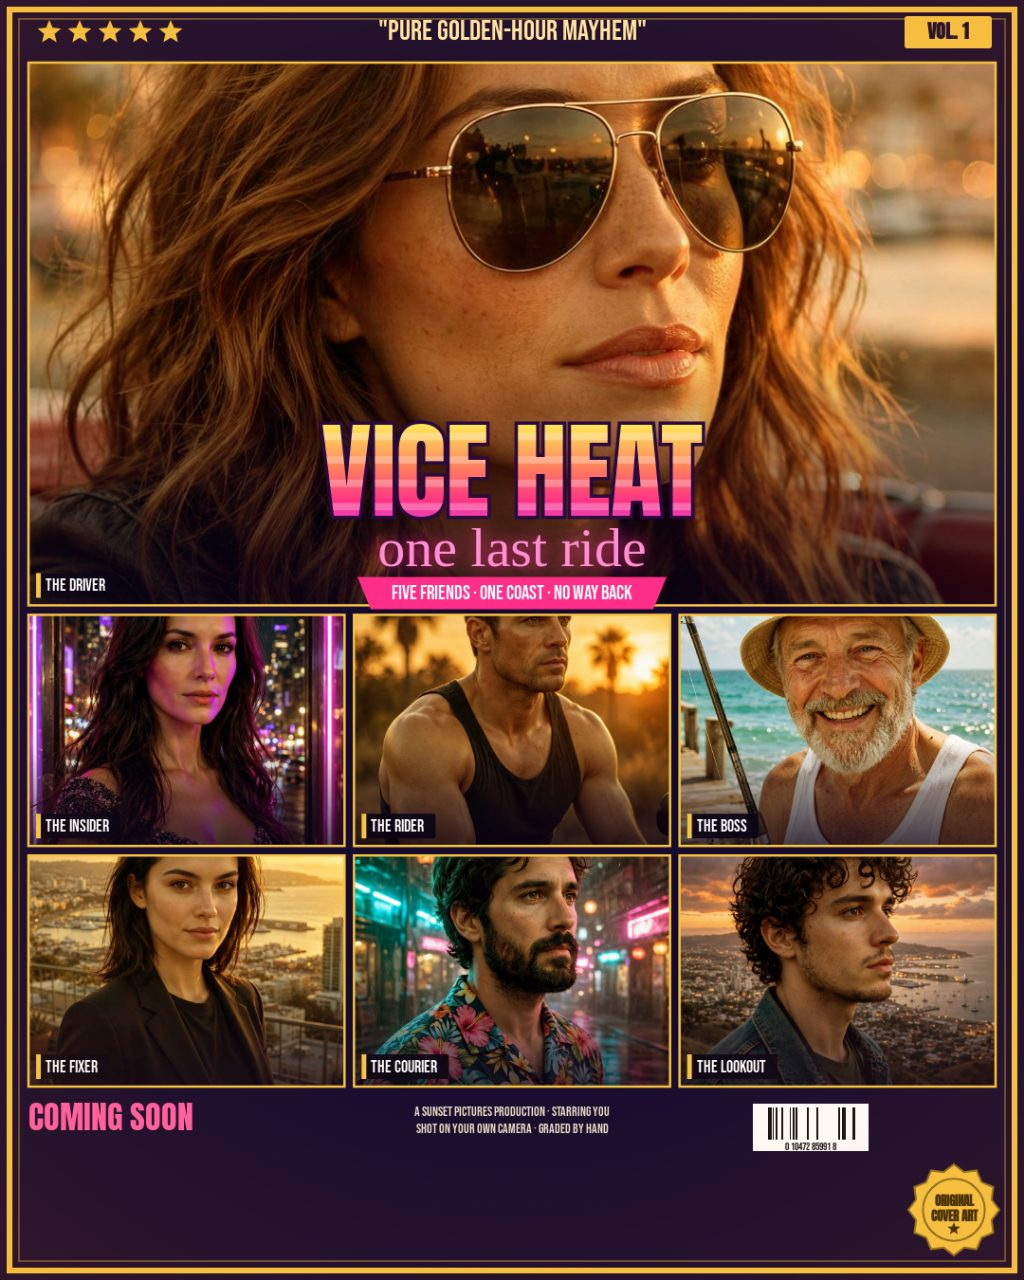
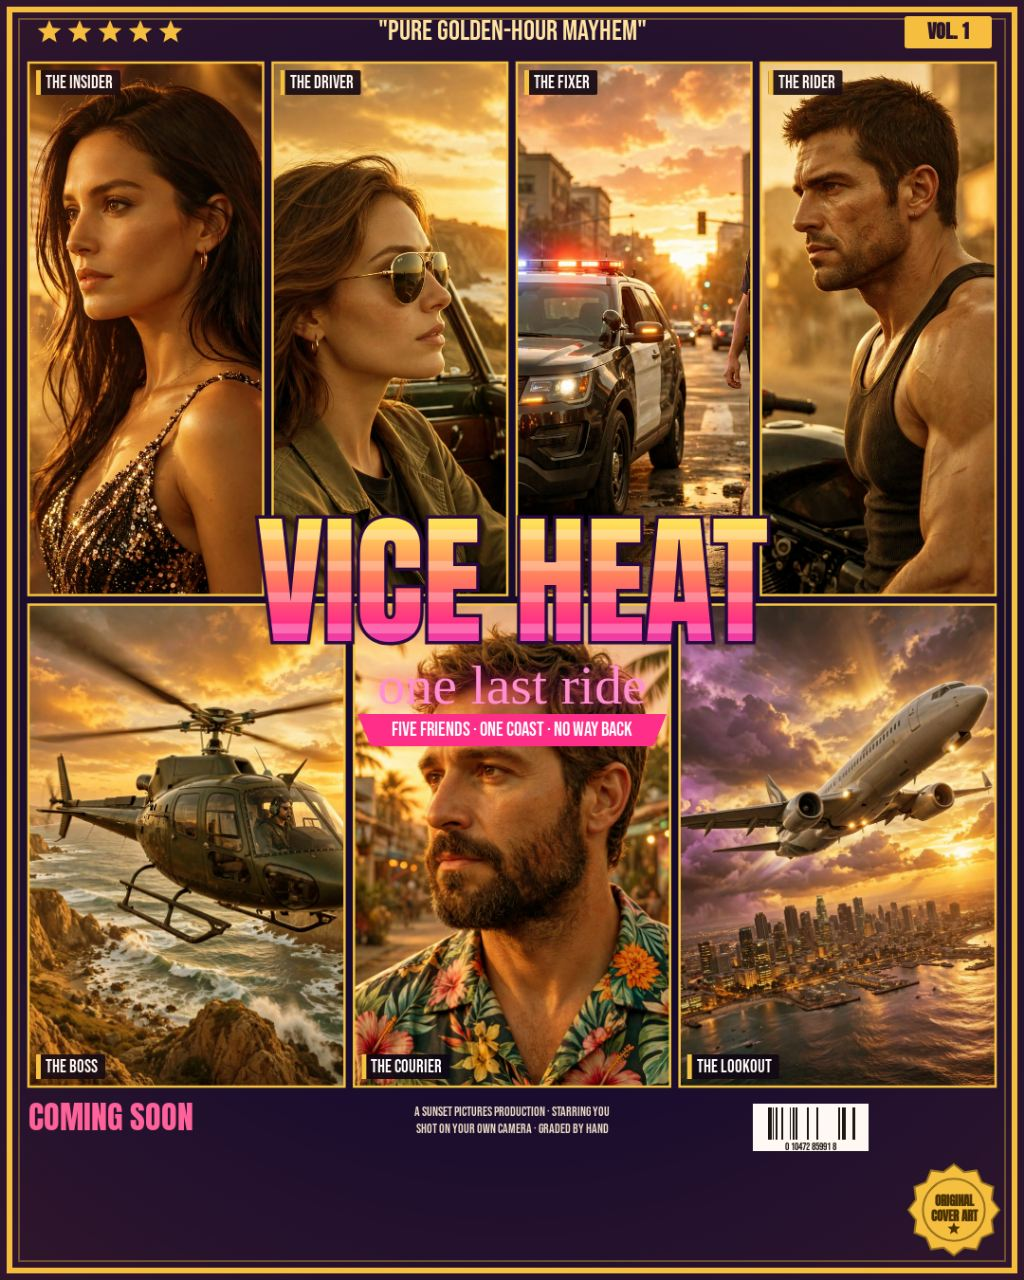
VICE HEAT rebuild #8: collage grid, varied character directions, mixed portraits + action scenes, golden-hour tone

diff --git a/app/src/cover.js b/app/src/cover.js
@@ -1,14 +1,16 @@
-// VICE HEAT — poster renderer.
+// VICE HEAT — poster renderer (rebuild #8).
 // Draws the GTA-style multi-panel cover on a 2D canvas. Pure canvas, no
 // network, no fonts outside the app's own WOFF2 files. All layout is
 // computed from the canvas size so the same code renders 1:1, 4:5 and 16:9.
-// Layout: landscape gets one dominant hero panel in the centre with three
-// supporting panels on each side; square and portrait get a large hero
-// panel on top (53%) above a compact 3x2 cast grid. The oversized title
-// crosses the hero image, with its stripes confined inside the letters.
+// Layout: classic collage grid — four panels on top, three below, big
+// striped title in the centre overlapping the row seam. The seven panels
+// mix four character portraits with three action scenes (police, helicopter,
+// airplane) so no two neighbours face or read the same way.
 
 export const GRADES = [
-  { id: 'sunset', name: 'Sunset', tint: '#ff7a18', alpha: 0.16, warm: 0.22 },
+  // Sunset is the default grade and the poster's whole tone (Sundown
+  // Racket style): a strong warm wash so every panel reads golden-hour.
+  { id: 'sunset', name: 'Sunset', tint: '#ff7a18', alpha: 0.2, warm: 0.3 },
   { id: 'neon', name: 'Neon', tint: '#ff2e88', alpha: 0.18, warm: 0.08 },
   { id: 'gold', name: 'Gold', tint: '#ffb400', alpha: 0.2, warm: 0.3 },
   { id: 'teal', name: 'Teal', tint: '#00c2a8', alpha: 0.16, warm: 0.0 },
@@ -17,15 +19,16 @@ export const GRADES = [
 
 // The seven panels of a VICE HEAT cover. `tag` is the name chip drawn on
 // the panel; `photo` is the key into the images map; `focus` is the
-// face-aware anchor (0..1) used by the cover-fit crop.
+// face-aware anchor (0..1) used by the cover-fit crop. Scene panels
+// (helicopter, airplane) use a centre focus — there is no face to keep.
 export const PANELS = [
   { key: 'hero', tag: 'THE DRIVER', focus: [0.5, 0.32] },
   { key: 'insider', tag: 'THE INSIDER', focus: [0.5, 0.3] },
-  { key: 'boss', tag: 'THE BOSS', focus: [0.5, 0.32] },
+  { key: 'boss', tag: 'THE BOSS', focus: [0.5, 0.45] },
   { key: 'rider', tag: 'THE RIDER', focus: [0.5, 0.3] },
   { key: 'courier', tag: 'THE COURIER', focus: [0.5, 0.3] },
-  { key: 'fixer', tag: 'THE FIXER', focus: [0.5, 0.3] },
-  { key: 'lookout', tag: 'THE LOOKOUT', focus: [0.5, 0.3] },
+  { key: 'fixer', tag: 'THE FIXER', focus: [0.5, 0.35] },
+  { key: 'lookout', tag: 'THE LOOKOUT', focus: [0.5, 0.5] },
 ];
 
 export const DEFAULT_STATE = {
@@ -149,48 +152,35 @@ export function drawCover(ctx, W, H, images, opts = {}) {
   ctx.font = `bold ${20 * u}px 'Anton', sans-serif`;
   ctx.fillText(s.vol, W - 34 * u - volW / 2, barY + 1 * u);
 
-  // ---- cinematic character collage
-  // Landscape covers use the reference composition: one dominant hero
-  // image in the middle, with three supporting character panels on each side.
-  // Square and portrait exports use a large hero panel above a compact 3x2 cast grid.
+  // ---- main grid: CLASSIC COLLAGE (per Yans's reference: a tight grid
+  // of panels with the big title in the centre overlapping them — the
+  // structure only, all content is our own original VICE HEAT material).
+  // Top row: four equal panels. Bottom row: three equal panels. No panel
+  // dominates; the title sits in the middle overlapping the row boundary.
+  // Four panels are character portraits facing different directions, three
+  // are action scenes (police, helicopter, airplane) — the mix keeps the
+  // grid from reading as seven identical headshots.
   const gridX = 30 * u;
   const gridW = W - 60 * u;
   const gridY = 66 * u;
   const gridH = H * 0.8;
   const gap = 10 * u;
-  const panels = {};
-  let titleY;
+  const topH = gridH * 0.52;
+  const botH = gridH - topH - gap;
+  const topW = (gridW - gap * 3) / 4;
+  const botW = (gridW - gap * 2) / 3;
 
-  if (W / H > 1.25) {
-    const sideW = gridW * 0.205;
-    const heroW = gridW - sideW * 2 - gap * 2;
-    const rowH = (gridH - gap * 2) / 3;
-    panels.insider = { x: gridX, y: gridY, w: sideW, h: rowH };
-    panels.rider = { x: gridX, y: gridY + rowH + gap, w: sideW, h: rowH };
-    panels.boss = { x: gridX, y: gridY + (rowH + gap) * 2, w: sideW, h: rowH };
-    panels.hero = { x: gridX + sideW + gap, y: gridY, w: heroW, h: gridH };
-    panels.fixer = { x: gridX + sideW + gap + heroW + gap, y: gridY, w: sideW, h: rowH };
-    panels.courier = { x: gridX + sideW + gap + heroW + gap, y: gridY + rowH + gap, w: sideW, h: rowH };
-    panels.lookout = { x: gridX + sideW + gap + heroW + gap, y: gridY + (rowH + gap) * 2, w: sideW, h: rowH };
-    titleY = gridY + gridH * 0.54;
-  } else {
-    const heroH = gridH * 0.53;
-    const lowerY = gridY + heroH + gap;
-    const lowerH = gridH - heroH - gap;
-    const cardW = (gridW - gap * 2) / 3;
-    const cardH = (lowerH - gap) / 2;
-    panels.hero = { x: gridX, y: gridY, w: gridW, h: heroH };
-    panels.insider = { x: gridX, y: lowerY, w: cardW, h: cardH };
-    panels.rider = { x: gridX + cardW + gap, y: lowerY, w: cardW, h: cardH };
-    panels.boss = { x: gridX + (cardW + gap) * 2, y: lowerY, w: cardW, h: cardH };
-    panels.fixer = { x: gridX, y: lowerY + cardH + gap, w: cardW, h: cardH };
-    panels.courier = { x: gridX + cardW + gap, y: lowerY + cardH + gap, w: cardW, h: cardH };
-    panels.lookout = { x: gridX + (cardW + gap) * 2, y: lowerY + cardH + gap, w: cardW, h: cardH };
-    titleY = gridY + heroH * 0.78;
-  }
+  const panels = {
+    insider: { x: gridX, y: gridY, w: topW, h: topH },
+    hero: { x: gridX + topW + gap, y: gridY, w: topW, h: topH },
+    fixer: { x: gridX + (topW + gap) * 2, y: gridY, w: topW, h: topH },
+    rider: { x: gridX + (topW + gap) * 3, y: gridY, w: topW, h: topH },
+    boss: { x: gridX, y: gridY + topH + gap, w: botW, h: botH },
+    courier: { x: gridX + botW + gap, y: gridY + topH + gap, w: botW, h: botH },
+    lookout: { x: gridX + (botW + gap) * 2, y: gridY + topH + gap, w: botW, h: botH },
+  };
 
-  // Draw all seven character photos with a fine gold frame and a subtle
-  // color grade. The central hero is intentionally the visual anchor.
+  // Draw each photo panel with a thin gold inner border.
   const photoKeys = ['insider', 'hero', 'fixer', 'rider', 'boss', 'courier', 'lookout'];
   for (const key of photoKeys) {
     const p = panels[key];
@@ -205,30 +195,25 @@ export function drawCover(ctx, W, H, images, opts = {}) {
       ctx.fillStyle = '#2a1548';
       ctx.fillRect(p.x, p.y, p.w, p.h);
     }
+    // grade wash over the photo
     ctx.globalCompositeOperation = 'soft-light';
     ctx.fillStyle = grade.tint;
-    ctx.globalAlpha = grade.alpha + 0.22;
+    ctx.globalAlpha = grade.alpha + 0.25;
     ctx.fillRect(p.x, p.y, p.w, p.h);
     ctx.globalCompositeOperation = 'source-over';
     ctx.globalAlpha = 1;
-    // Dark lower gradient keeps character labels legible on bright photos.
-    const shade = ctx.createLinearGradient(0, p.y + p.h * 0.55, 0, p.y + p.h);
-    shade.addColorStop(0, 'rgba(12,4,24,0)');
-    shade.addColorStop(1, 'rgba(12,4,24,0.72)');
-    ctx.fillStyle = shade;
-    ctx.fillRect(p.x, p.y, p.w, p.h);
     ctx.restore();
-
     ctx.strokeStyle = '#f5c542';
     ctx.lineWidth = Math.max(1, 2.5 * u);
     ctx.strokeRect(p.x, p.y, p.w, p.h);
-
+    // name tag chip: top-row panels wear it on top, bottom-row panels on
+    // the bottom (the big title overlaps the boundary between the rows).
     const tag = def.tag;
-    const tagPx = Math.max(10, 18 * u);
-    ctx.font = `${tagPx}px 'Bebas Neue', sans-serif`;
-    const tw = Math.min(p.w - 16 * u, ctx.measureText(tag).width + 22 * u);
+    ctx.font = `${Math.max(11, 19 * u)}px 'Bebas Neue', sans-serif`;
+    const tw = ctx.measureText(tag).width + 18 * u;
     const th = 26 * u;
-    const tagY = p.y + p.h - th - 8 * u;
+    const isBottomRow = p.y > gridY + topH;
+    const tagY = isBottomRow ? p.y + p.h - th - 8 * u : p.y + 8 * u;
     ctx.fillStyle = 'rgba(10,5,20,0.92)';
     rr(ctx, p.x + 8 * u, tagY, tw, th, 2 * u);
     ctx.fill();
@@ -237,15 +222,18 @@ export function drawCover(ctx, W, H, images, opts = {}) {
     ctx.fillStyle = '#ffffff';
     ctx.textAlign = 'left';
     ctx.textBaseline = 'middle';
-    ctx.fillText(tag, p.x + 18 * u, tagY + th / 2 + 1 * u, tw - 14 * u);
+    ctx.fillText(tag, p.x + 18 * u, tagY + th / 2 + 1 * u);
   }
 
-  // ---- oversized title crossing the hero image, as in the cover references
-  const titlePx = fitFont(ctx, s.title, "'Anton', sans-serif", gridW * 0.94, (W / H > 1.25 ? 150 : 112) * u);
+  // ---- big striped title overlapping the row seam
+  // Wide 16:9 exports have room for a larger title than square/portrait.
+  const titleY = gridY + topH + 6 * u;
+  const titleStartPx = (W / H > 1.25 ? 170 : 150) * u;
+  const titlePx = fitFont(ctx, s.title, "'Anton', sans-serif", gridW * 0.94, titleStartPx);
   ctx.textAlign = 'center';
   ctx.textBaseline = 'middle';
   ctx.font = `${titlePx}px 'Anton', sans-serif`;
-  // Chrome gradient fill: pink -> orange -> gold.
+  // Chrome gradient fill: yellow -> orange -> pink -> purple.
   const tg = ctx.createLinearGradient(0, titleY - titlePx * 0.55, 0, titleY + titlePx * 0.55);
   tg.addColorStop(0, '#ffe259');
   tg.addColorStop(0.35, '#ff7e5f');

diff --git a/app/src/main.js b/app/src/main.js
@@ -1,10 +1,9 @@
-// VICE HEAT — cover studio editor.
+// VICE HEAT — cover studio editor (rebuild #8).
 // Upload your own photos (or keep the seven golden-hour samples), edit the
 // title, tagline and captions, pick one of five colour grades, then export
 // the poster as a PNG in three sizes. Everything runs offline in the page.
-// The poster is one dominant hero panel (THE DRIVER) with three supporting
-// panels on each side in landscape, or a large hero above a 3x2 cast grid
-// in square and portrait — the oversized title crosses the hero image.
+// Samples mix four character portraits with three action scenes (police,
+// helicopter, airplane).
 
 import { drawCover, GRADES, PANELS, DEFAULT_STATE, EXPORT_SIZES } from './cover.js';
 
@@ -21,7 +20,7 @@ const SAMPLE_SRC = {
   lookout: 'samples/lookout.jpg',
 };
 
-const LS_KEY = 'vice-heat-studio-v7';
+const LS_KEY = 'vice-heat-studio-v8';
 
 function loadImage(src) {
   return new Promise((resolve, reject) => {
@@ -296,10 +295,6 @@ export function shotFromQuery() {
 
 async function boot() {
   await loadAllImages();
-  // The poster text is drawn on canvas with the app's own fonts; wait for
-  // them so the first render (and any screenshot) uses Anton/Bebas/Pacifico,
-  // not a fallback face.
-  try { await document.fonts.ready; } catch { /* fonts are optional */ }
   buildPanelCards();
   buildGradeButtons();
   buildSizeButtons();
@@ -315,9 +310,12 @@ async function boot() {
       state.grade = shot.grade;
     }
   }
+  // Wait for the OFL fonts so the title renders in Anton/Bebas/Pacifico
+  // instead of a fallback face on the first paint.
+  try { await document.fonts.ready; } catch { /* fonts are optional */ }
   renderPreview();
   document.body.classList.add('ready');
-  // Signal the scripted screenshot runner that the poster is drawn.
+  // Signal for the screenshot runner: the poster is painted.
   window.__shotReady = true;
 }
 

diff --git a/app/index.html b/app/index.html
@@ -66,21 +66,23 @@
     <section class="card">
       <h2>Cast photos</h2>
       <div id="panels" class="panels"></div>
-      <p class="hint">Seven golden-hour samples are included. Tap “Upload photo”
-      on any panel to replace it with your own shot; the face slider moves
-      the crop so the face stays in frame.</p>
+      <p class="hint">Seven golden-hour samples are included — four character
+      portraits facing different directions plus three action scenes (police,
+      helicopter, airplane). Tap “Upload photo” on any panel to replace it
+      with your own shot; the face slider moves the crop so the face stays
+      in frame.</p>
     </section>
 
     <section class="card about">
       <h2>About this studio</h2>
       <p>VICE HEAT turns seven photos into a framed crime-epic key art cover:
-      one dominant hero panel (THE DRIVER) with three supporting panels on
-      each side in landscape, or a large hero above a 3x2 cast grid in
-      square and portrait — with name tags, a big striped chrome title
-      crossing the hero, a script subtitle, a tagline ribbon, a five-star
-      press bar, a billing block, a barcode and a gold seal. Built for the
-      make.fun gta6-cover-art-01 bounty. All artwork here is original; no
-      Rockstar logo, artwork or font is used anywhere.</p>
+      a tight classic collage grid — four panels on top, three below — with
+      name tags, a big striped chrome title in the centre overlapping the
+      panels, a script subtitle, a tagline ribbon, a five-star press bar, a
+      billing block, a barcode and a gold seal. The panels mix character
+      portraits with action scenes so the grid never reads as seven identical
+      headshots. Built for the make.fun gta6-cover-art-01 bounty. All artwork
+      here is original; no Rockstar logo, artwork or font is used anywhere.</p>
     </section>
   </aside>
 </main>

diff --git a/main.ts b/main.ts
@@ -1,6 +1,7 @@
 // VICE HEAT — entrypoint (gta6-cover-art-01, Node 22, stdlib only).
 // Copies app/ and screenshots/ into /output and writes the dossier the
 // bounty scorer checks. Run: `node main.ts` from the repo root.
+// Rebuild #8: classic collage grid, mixed portraits + action scenes.
 
 import { cpSync, existsSync, mkdirSync, readdirSync, rmSync, writeFileSync } from 'node:fs';
 import { buildDossier } from './vendor/makefun-app.ts';
@@ -17,13 +18,17 @@ function failFast(): void {
   if (shots.length < 3) {
     throw new Error(`screenshots/ holds only ${shots.length} image(s): the dossier needs 3 or 4 renders`);
   }
+  if (shots.length > 4) {
+    throw new Error(`screenshots/ holds ${shots.length} image(s): the dossier allows at most 4 renders`);
+  }
   // The poster text renders with the app's own OFL fonts; without them the
-  // title falls back to a system font and the cover loses its look.
+  // title falls back to a system face and the dossier screenshots look off.
   const fonts = existsSync('app/fonts') ? readdirSync('app/fonts').filter((f) => /\.woff2$/i.test(f)) : [];
   if (fonts.length < 3) {
-    throw new Error('app/fonts/ holds no WOFF2 fonts: the poster needs Anton, Bebas Neue and Pacifico');
+    throw new Error(`app/fonts/ holds only ${fonts.length} WOFF2 file(s): the app needs Anton, Bebas Neue and Pacifico`);
   }
   console.log(`screenshots: ${shots.sort().join(', ')}`);
+  console.log(`fonts: ${fonts.sort().join(', ')}`);
 }
 
 function main(): void {

diff --git a/app/src/shots.js b/app/src/shots.js
@@ -1,4 +1,4 @@
-// VICE HEAT — screenshot definitions.
+// VICE HEAT — screenshot definitions (rebuild #8).
 // The four dossier screenshots: the cover first, then the editor, then the
 // two alternate export sizes. The Playwright runner loads index.html with
 // ?shot=<name> and captures the #poster canvas (or the whole editor for
@@ -12,7 +12,7 @@ export const SHOTS = [
     width: 1080,
     height: 1080,
     query: 'shot=1-cover',
-    caption: 'The VICE HEAT cover: dominant hero panel with three cast panels on each side, striped title crossing the hero.',
+    caption: 'The VICE HEAT cover: classic collage grid mixing four portraits with police, helicopter and airplane action scenes.',
   },
   {
     name: '2-editor',
@@ -28,7 +28,7 @@ export const SHOTS = [
     width: 1024,
     height: 1280,
     query: 'shot=3-cover-portrait',
-    caption: 'Portrait 4:5 export with the Gold grade: large hero above the 3x2 cast grid.',
+    caption: 'Portrait 4:5 export with the Gold grade.',
   },
   {
     name: '4-cover-square',

diff --git a/app/style.css b/app/style.css
@@ -1,8 +1,6 @@
-/* VICE HEAT — Cover Studio styles. Dark editor, gold accents, the same
-   sunset palette as the poster itself. Fonts are the app's own WOFF2
-   files (OFL: Anton, Bebas Neue, Pacifico) — nothing loads from a CDN.
-   Rebuild #7: the poster is one dominant hero panel with a 3x2 cast grid
-   below (square/portrait) or three panels per side (landscape). */
+/* VICE HEAT — Cover Studio styles (rebuild #8). Dark editor, gold accents,
+   the same sunset palette as the poster itself. Fonts are the app's own
+   WOFF2 files (OFL: Anton, Bebas Neue, Pacifico) — nothing loads from a CDN. */
 
 @font-face {
   font-family: 'Anton';

diff --git a/serve.ts b/serve.ts
@@ -1,7 +1,7 @@
 // VICE HEAT — tiny static server for local development and screenshots.
 // Serves the app/ directory offline on 127.0.0.1. Run: `node serve.ts`
 // (or `node serve.ts --port 8081`). No dependencies, Node 22 stdlib only.
-// Rebuild #7 serves the hero-layout studio on the same port.
+// Rebuild #8: same server, kept for the Playwright screenshot runner.
 
 import { createServer } from 'node:http';
 import { existsSync, readFileSync, statSync } from 'node:fs';

diff --git a/README.md b/README.md
@@ -4,15 +4,16 @@
 
 # VICE HEAT — Cover Studio
 
-Turn your own photos into a framed crime-epic key art cover: one dominant
-hero close-up (THE DRIVER) with three cast panels on each side in
-landscape, or a large hero above a 3x2 cast grid in square and portrait —
-with name tags, a big striped chrome title crossing the hero, a pink script
-subtitle, a tagline ribbon, a five-star press bar, a billing block, a
-barcode and a gold seal. Upload a photo into any panel, edit the title and
-captions, pick one of five colour grades (Sunset, Neon, Gold, Teal, Noir),
-and export the poster as a PNG in three sizes — Square 1:1 (1080×1080),
-Portrait 4:5 (1080×1350) and Wide 16:9 (1920×1080).
+Turn your own photos into a framed crime-epic key art cover: a tight
+classic collage grid — four panels on top, three below — mixing four
+character portraits facing different directions with three action scenes
+(police, helicopter, airplane), a striped chrome title in the centre
+overlapping the panels, a pink script subtitle, a tagline ribbon, a
+five-star press bar, a billing block, a barcode and a gold seal. Upload a
+photo into any panel, edit the title and captions, pick one of five colour
+grades (Sunset, Neon, Gold, Teal, Noir), and export the poster as a PNG in
+three sizes — Square 1:1 (1080×1080), Portrait 4:5 (1080×1350) and Wide 16:9
+(1920×1080).
 
 ## Run it
 
